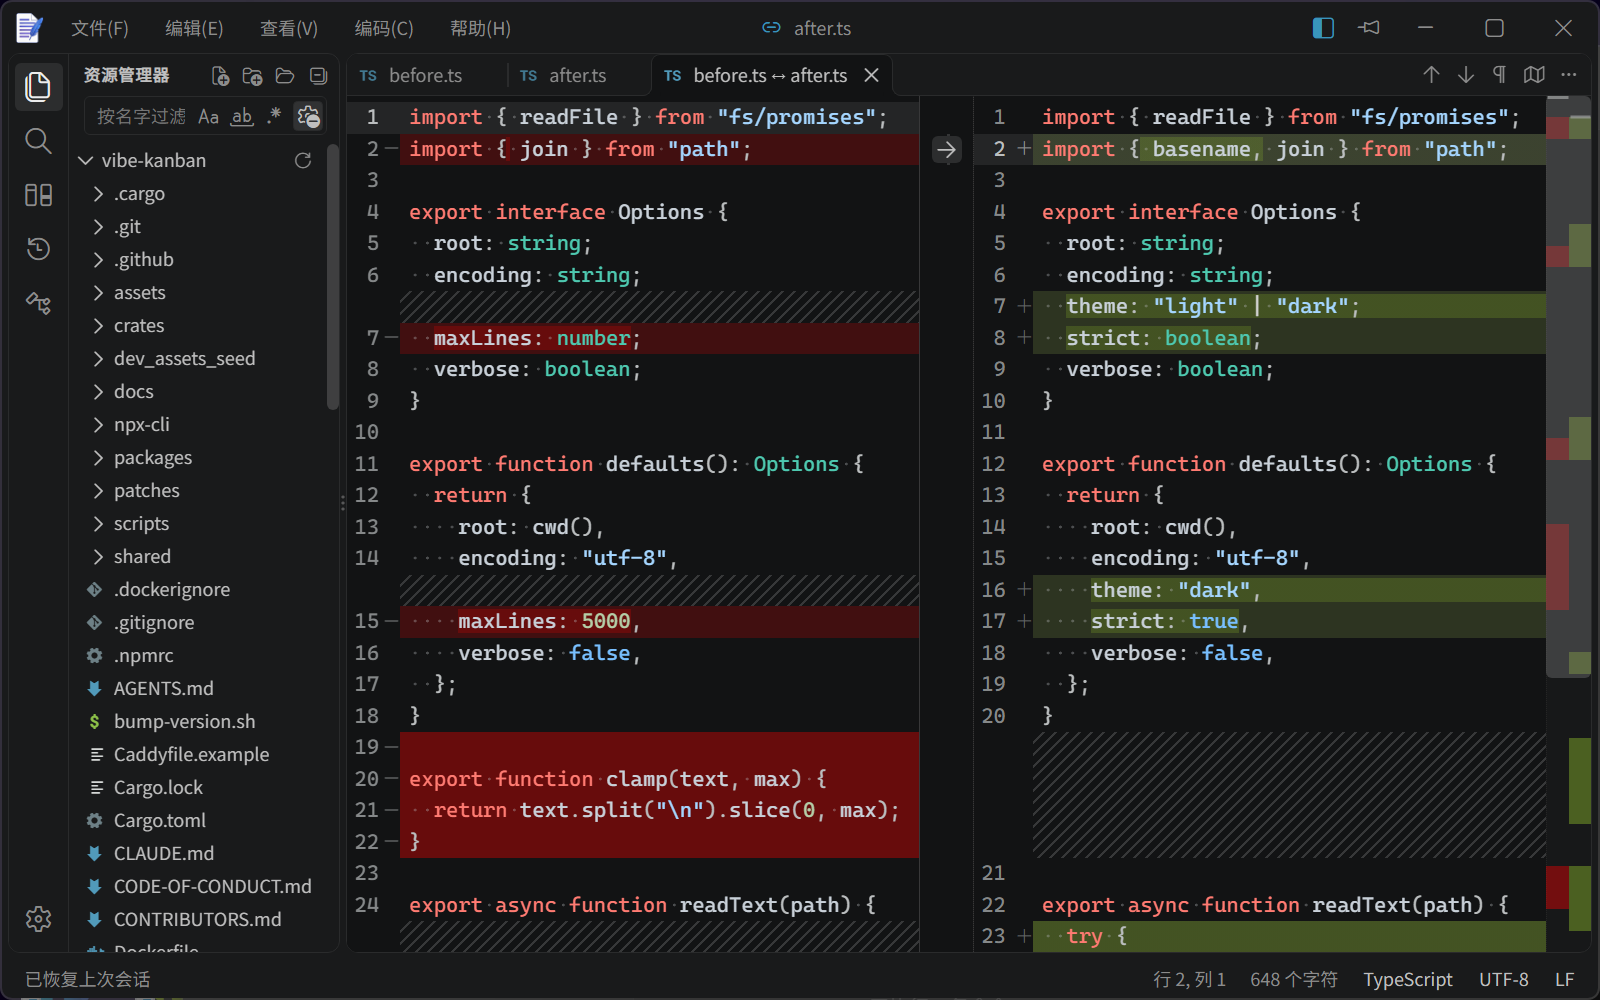
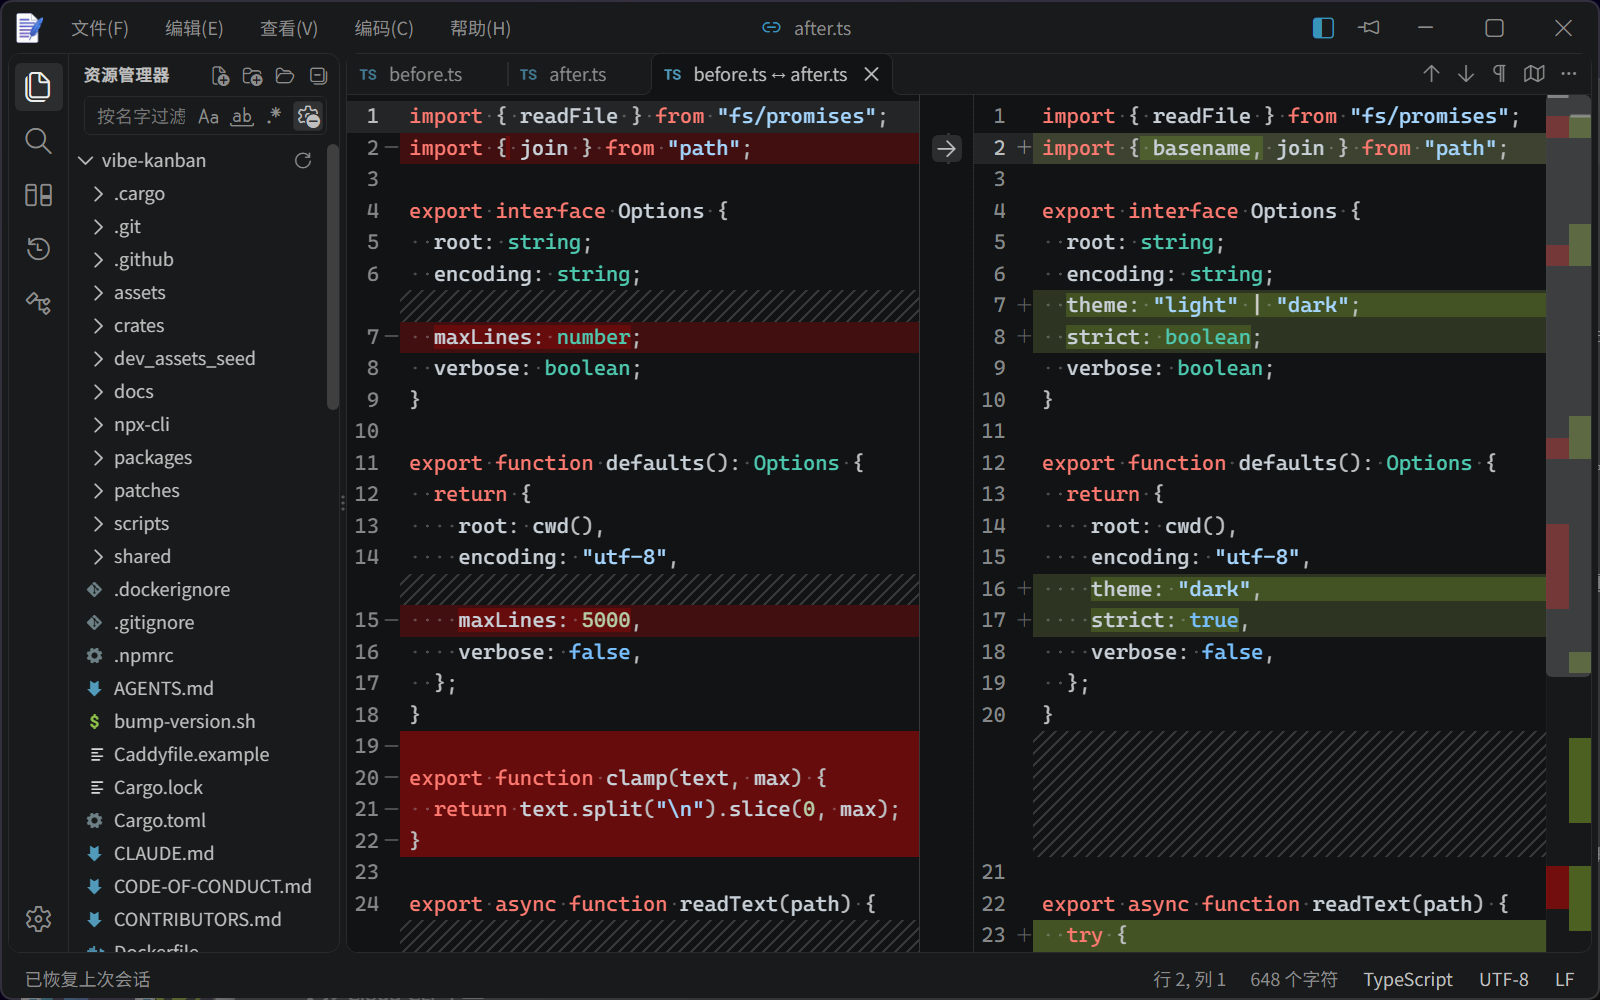
fix(tabs): 标签帽上沿与编辑区卡片顶边合成一条线，不再叠成 2px

diff --git a/tests/tabstrip.test.ts b/tests/tabstrip.test.ts
@@ -1410,3 +1410,66 @@ describe("B418 标签条右侧按钮与标签之间的渐变过渡", () => {
     expect(ops, "抬一层盖住标签内容").toMatch(/z-index:\s*1/);
   });
 });
+
+describe("卡片顶边与活动帽上沿同一行（2026-11-15 用户实拍「边框加粗」）", () => {
+  // 现象：活动标签帽的上沿描边落在头部第一行，卡片又自己占一行顶边 border
+  // ⇒ 两条 1px 上下并排，用户读成一条 2px 的粗线。
+  // 口径：顶边零宽，改成 `.panel-head::before` 画在头部第一行 —— 和帽上沿同行。
+  const css = readFileSync("src/styles/global.css", "utf-8");
+
+  it("卡片顶边零宽，顶边线由 .panel-head::before 补在头部第一行", () => {
+    const area = cssDecls(ruleBlock(css, ".layout-area", undefined, true));
+    expect(area, "应有 .layout-area 规则").toBeTruthy();
+    expect(area, "顶边必须零宽（不然和帽上沿并排成 2px）").toMatch(/border-top-width:\s*0/);
+    expect(area, "顶边不许再写颜色（透明边框照样占一行）").not.toMatch(/border-top-color/);
+
+    const line = cssDecls(ruleBlock(css, ".panel-head::before", undefined, true));
+    expect(line, "补画的顶边线必须存在").toBeTruthy();
+    expect(line, "线贴 head 第一行（top:0）").toMatch(/top:\s*0/);
+    // 必须走 border：1.5× 下 height + background 的 1px 会铺成两个设备行（一行实色 +
+    // 一行半透明），而帽上描边是 border、只占一个设备行 —— 同一根线粗细会跳变。
+    expect(line, "线厚与颜色都取帽描边同款 token，且走 border 取整").toMatch(
+      /border-top:\s*var\(--tab-stroke\)\s+solid\s+var\(--editor-card-border-top\)/,
+    );
+    expect(line, "不许退回 height + background（1.5× 下占两个设备行）").not.toMatch(/background:/);
+    expect(line, "不吃鼠标事件").toMatch(/pointer-events:\s*none/);
+
+    const lineZ = Number(/z-index:\s*(-?\d+)/.exec(line)?.[1] ?? NaN);
+    const fillZ = Number(
+      /z-index:\s*(-?\d+)/.exec(cssDecls(ruleBlock(css, ".tab-active .tab-fill")))?.[1] ?? NaN,
+    );
+    expect(lineZ, "顶边线要压住条带底色与非活动悬停 fill（z-index 0）").toBeGreaterThan(0);
+    expect(lineZ, "顶边线不许反压活动帽（帽 z-index 1 且后画）").toBeLessThanOrEqual(fillZ);
+  });
+
+  it("帽上沿确实顶到头部第一行（条带上间距 = fill 的上探量）", () => {
+    const strip = cssDecls(ruleBlock(css, ".panel-tabstrip", undefined, true));
+    const padTop = Number(/padding:\s*(\d+)px/.exec(strip)?.[1] ?? NaN);
+    const fill = cssDecls(ruleBlock(css, ".tab-fill", undefined, true));
+    const insetTop = -Number(/inset:\s*-(\d+)px/.exec(fill)?.[1] ?? NaN);
+    expect(padTop, "条带上间距应能读到").not.toBeNaN();
+    expect(insetTop, "fill 的上探量应能读到").not.toBeNaN();
+    expect(padTop + insetTop, "fill 上沿必须正好顶到条带最上沿").toBe(0);
+  });
+
+  it("反向验证：顶边改回 1px、或顶边线挪下一行，判据必须转红", () => {
+    const areaShadow = css.replace(
+      /(\.layout-area \{[\s\S]*?)border-top-width:\s*0;/,
+      "$1border-top-width: 1px;",
+    );
+    expect(areaShadow, "替身必须真的改到卡片顶边").not.toBe(css);
+    expect(() => {
+      expect(cssDecls(ruleBlock(areaShadow, ".layout-area", undefined, true))).toMatch(
+        /border-top-width:\s*0/,
+      );
+    }).toThrow();
+
+    const lineShadow = css.replace(/(\.panel-head::before \{[\s\S]*?)top:\s*0;/, "$1top: 1px;");
+    expect(lineShadow, "替身必须真的改到顶边线").not.toBe(css);
+    expect(() => {
+      expect(cssDecls(ruleBlock(lineShadow, ".panel-head::before", undefined, true))).toMatch(
+        /top:\s*0/,
+      );
+    }).toThrow();
+  });
+});

diff --git a/tests/theme-vscode.test.ts b/tests/theme-vscode.test.ts
@@ -752,14 +752,30 @@ describe("B380 · 中间区域背景 / HC 边框 / 编辑器交互状态", () =>
     // 标题栏自己的下沿线（B380 的 box-shadow）这一轮已整个摘掉，肉眼看到的那根其实是
     // `.side-shell` / `.layout-area` 的**上沿边框** —— 两张卡的顶边正贴在 34px 标题栏下沿，
     // 非 HC 档那颗与底同色系看不出来，HC 档是 contrastBorder，一眼读成「标题栏带了一圈框」。
-    for (const sel of [".side-shell", ".layout-area"]) {
-      const block = stripCssComments(ruleBlock(source, sel, "border-top-color"));
-      expect(block, `${sel} 必须存在且消费上沿键`).toBeTruthy();
-      expect(block, `${sel} 的上沿取 --editor-card-border-top`).toContain(
+    //
+    // 编辑区卡片（.layout-area）的顶边线后来挪进了 `.panel-head::before`：卡片顶边零宽、
+    // 线画在头部第一行，才和活动标签帽的上沿落在同一行（见 tabstrip.test.ts 的几何契约）。
+    // 颜色仍然只认这颗 token ⇒ HC 的 transparent 依旧等于「不画线」。
+    {
+      const side = stripCssComments(ruleBlock(source, ".side-shell", "border-top-color"));
+      expect(side, ".side-shell 必须存在且消费上沿键").toBeTruthy();
+      expect(side, ".side-shell 的上沿取 --editor-card-border-top").toContain(
         "border-top-color: var(--editor-card-border-top)",
       );
-      expect(block, `${sel} 的其余三边仍走 --editor-card-border（B201 的完整轮廓）`).toContain(
+      expect(side, ".side-shell 的其余三边仍走 --editor-card-border（B201 的完整轮廓）").toContain(
         "border: 1px solid var(--editor-card-border)",
+      );
+
+      const area = stripCssComments(ruleBlock(source, ".layout-area", "border"));
+      expect(area, ".layout-area 必须存在").toBeTruthy();
+      expect(area, ".layout-area 的其余三边仍走 --editor-card-border（B201 的完整轮廓）").toContain(
+        "border: 1px solid var(--editor-card-border)",
+      );
+
+      const topLine = stripCssComments(ruleBlock(source, ".panel-head::before", "border-top"));
+      expect(topLine, "编辑区卡片的顶边线必须存在且消费上沿键").toBeTruthy();
+      expect(topLine, "顶边线取 --editor-card-border-top").toContain(
+        "border-top: var(--tab-stroke) solid var(--editor-card-border-top)",
       );
     }
     // 表：默认档（2026/Modern/Plus/Classic）的上沿 = 外框同色，靠 var() 引用不各抄一份
@@ -769,7 +785,7 @@ describe("B380 · 中间区域背景 / HC 边框 / 编辑器交互状态", () =>
         "var(--editor-card-border)",
       );
     }
-    // HC：上沿透明。只去颜色、留 1px 边框盒 ⇒ 卡片内容与几何一点不动（改成 0 宽会把整张卡上提 1px）
+    // HC：上沿线透明 ⇒ 标题栏下不画线（线由 .panel-head::before 补，颜色只认这颗 token）
     for (const [mode, color] of [
       ["dark", "#6fc3df"],
       ["light", "#0f4a85"],

diff --git a/src/styles/global.css b/src/styles/global.css
@@ -3929,9 +3929,14 @@ button:focus-visible {
         各自的**边**，不是「为了分割而画的一条线」，别再当多余的一条抹掉。
      ⚠ 想改卡片轮廓：改这一处就要同时改 .side-shell 那一处，两个要**成对**改
         （border 与 border-radius 已逐字同步，见 .side-shell 上方的注释）。
+        例外是**顶边**：只有编辑区卡片顶着标签帽，顶边线改由 `.panel-head::before` 画（见下）。
      缝中央那条 hover 才亮的亮条 = VS Code sash 的 hover 反馈（见 preview.css 的 .side-resizer）。 */
   border: 1px solid var(--editor-card-border);
-  border-top-color: var(--editor-card-border-top); /* B390：HC 档这颗 = transparent */
+  /* B390 的顶边色由 `.panel-head::before` 接手（见那条的注释）。这里顶边**零宽**：
+     卡片自己再占一行 border 的话，活动标签帽的上沿（fill 从条带顶 -3px 上探，
+     落在头部第一行）就会与它上下并排 —— 两条 1px 叠成一条 2px 的粗线
+     （2026-11-15 用户实拍）。零宽后帽上沿与补画的顶边线落在同一行，只出现一条。 */
+  border-top-width: 0;
   border-radius: 8px;
   background: var(--bg);
 }
@@ -4220,6 +4225,27 @@ button:focus-visible {
      舌片才盖得住。B122 一度把这条线整个撤掉，B349 按用户点名的 VS Code 相连档补回。
      ⚠ 因此 head 必须是定位基准（::after 绝对定位贴底），且 ops 段不必再自己补线。 */
   position: relative;
+}
+
+/* 卡片顶边那条线：`.layout-area` 的 border-top 让位给这里（零宽），
+   画进 head 盒内的**第一行**。活动标签 fill 的 inset-top 也是 -3px（顶到条带最上沿），
+   帽的上描边同样落在这一行 ⇒ 顶边只有 1px，不再是「卡片边框 + 帽描边」两条并排。
+   颜色沿用编辑器卡片顶边那颗 token（B390：HC 档 transparent = 不画线）。
+   z-index 1：要压住条带自身底色与非活动悬停 fill（0），又必须低于活动帽（1，后画）。 */
+.panel-head::before {
+  content: "";
+  position: absolute;
+  left: 0;
+  right: 0;
+  top: 0;
+  /* 用 border 画、不用 height + background：1.5× 屏上 1px 高的**背景块**会被铺成两个
+     设备行（一行实色 + 一行半透明），而帽的上描边是 border，取整成 1 个设备行 ——
+     同一根线在活动标签处反而比空条带处细一半（2026-11-15 实拍对比）。
+     border 与帽描边走同一条取整路径，两边都只占 1 个设备行。 */
+  height: 0;
+  border-top: var(--tab-stroke) solid var(--editor-card-border-top);
+  z-index: 1;
+  pointer-events: none;
 }
 
 /* B349：条带下沿那条横贯线（标签段 + 右侧 ops 段一条线走完，对应 VS Code 的
